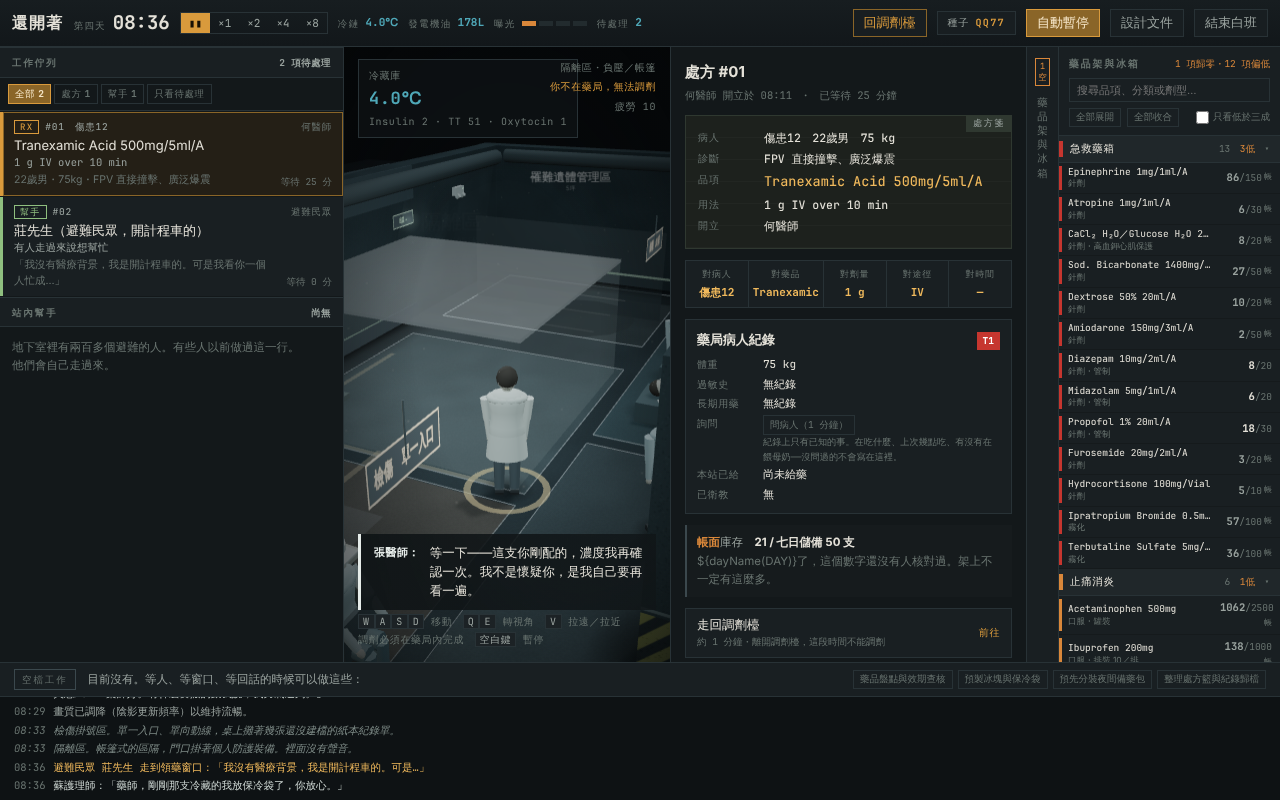
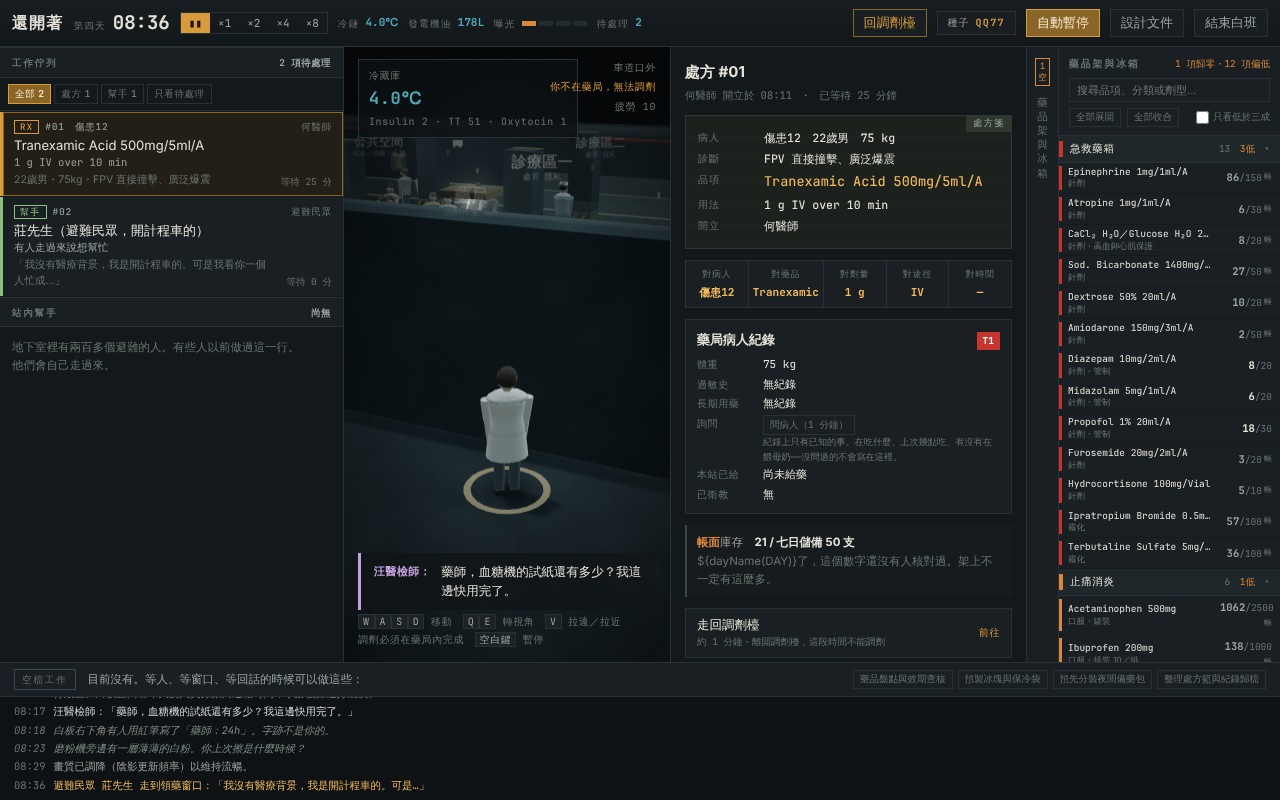
Smooth camera, wall pipes/conduit/posters, worn-floor roughness, working arms, medicine bags
Claude-Session: https://claude.ai/code/session_014gwcX8PJWUWGRypBbiNv4K

diff --git a/js/scene3d.js b/js/scene3d.js
@@ -108,6 +108,24 @@ function concreteTex(){
   t.anisotropy=Math.min(4,renderer.capabilities.getMaxAnisotropy());
   return t;
 }
+/* 地面的粗糙度：大部分是乾的粗水泥，有幾塊被鞋子、推車磨亮的地方，
+   燈打下來會在那幾塊留下一點反光。值越小越亮（roughnessMap 讀綠色通道）。 */
+function roughTex(){
+  const N=128, c=document.createElement('canvas'); c.width=c.height=N;
+  const g=c.getContext('2d'), im=g.createImageData(N,N), d=im.data, rr=mulberry(0x2ff);
+  const G=5, grid=[]; for (let i=0;i<G*G;i++) grid.push(rr());
+  const at=(x,y)=>grid[((y%G+G)%G)*G+((x%G+G)%G)], sm=t=>t*t*(3-2*t);
+  for (let y=0;y<N;y++) for (let x=0;x<N;x++){
+    const fx=x/N*G, fy=y/N*G, x0=Math.floor(fx), y0=Math.floor(fy), tx=sm(fx-x0), ty=sm(fy-y0);
+    const a=at(x0,y0)+(at(x0+1,y0)-at(x0,y0))*tx, b=at(x0,y0+1)+(at(x0+1,y0+1)-at(x0,y0+1))*tx;
+    const n=a+(b-a)*ty;                                  // 0..1
+    const v=n>.62 ? .5+(1-n)*.55 : .86+(rr()-.5)*.08;     // 磨亮的那幾塊約 0.5–0.7
+    const k=(y*N+x)*4, q=Math.max(0,Math.min(255,v*255));
+    d[k]=d[k+1]=d[k+2]=q; d[k+3]=255;
+  }
+  g.putImageData(im,0,0);
+  const t=new THREE.CanvasTexture(c); t.wrapS=t.wrapT=THREE.RepeatWrapping; return t;
+}
 function mulberry(a){ return ()=>{ a|=0; a=a+0x6D2B79F5|0; let t=Math.imul(a^a>>>15,1|a);
   t=t+Math.imul(t^t>>>7,61|t)^t; return ((t^t>>>14)>>>0)/4294967296; }; }
 /** 方塊六個面各自依實際尺寸放大 UV（BoxGeometry 的面順序：±x、±y、±z，每面四個頂點） */
@@ -546,6 +564,96 @@ function dressStation(small){
     add(m,x,2.35,z);
     add(cyl(.012,.55,0x4a5458,6,.6,.4), x,2.6,z); });
 }
+/* ---------- 牆面 ----------
+   北牆（藥局後面那一面）幾乎每個畫面都看得到，原本是一整片空的深灰。
+   地下停車場的牆上其實很擠：消防灑水主管（紅）、給水管、電線管與接線盒、
+   漆到一公尺高的牆裙；變成急救站之後又貼滿了告示。全部靜態，合併後幾次 draw call。 */
+function posterAtlas(){
+  const W=1024,H=512,c=document.createElement('canvas'); c.width=W; c.height=H;
+  const g=c.getContext('2d');
+  const cell=(i,bg,fg,title,lines,draw)=>{
+    const x=(i%4)*256, y=Math.floor(i/4)*256;
+    g.save(); g.translate(x,y);
+    g.fillStyle=bg; g.fillRect(4,4,248,248);
+    g.fillStyle='rgba(0,0,0,.12)'; g.fillRect(4,236,248,16);            // 下緣受潮
+    g.fillStyle=fg; g.font='700 30px "Noto Sans TC",sans-serif'; g.textAlign='center';
+    g.fillText(title,128,46);
+    g.fillRect(28,58,200,3);
+    g.font='500 19px "Noto Sans TC",sans-serif';
+    lines.forEach((l,k)=>g.fillText(l,128,92+k*28));
+    if (draw) draw(g);
+    g.fillStyle='rgba(200,200,190,.5)';                                  // 膠帶
+    g.fillRect(14,0,40,14); g.fillRect(202,0,40,14);
+    g.restore();
+  };
+  cell(0,'#d8d2c0','#3a3226','藥品　五對',['對病人','對藥品','對劑量','對途徑','對時間']);
+  cell(1,'#dfe6e2','#24506a','洗手七步驟',['內　外　夾','弓　大　立','腕','（每位病人前後）']);
+  cell(2,'#2b2f2a','#e6d36b','防空避難',['B2 避難室','容納 480 人','警報時','關閉車道鐵捲門','勿使用電梯']);
+  cell(3,'#c94a3a','#f3e6d8','禁止吸菸',['NO SMOKING','發電機與','氧氣鋼瓶區'],g=>{
+    g.strokeStyle='#f3e6d8'; g.lineWidth=8; g.beginPath(); g.arc(128,200,30,0,6.3); g.stroke();
+    g.beginPath(); g.moveTo(107,179); g.lineTo(149,221); g.stroke(); });
+  cell(4,'#e3dccb','#5a2a22','管制藥品',['雙人核對','雙人簽名','空瓶繳回','櫃子隨手上鎖']);
+  cell(5,'#d6dccf','#2f4a3a','檢傷分級',['紅　立即','黃　緊急','綠　非緊急','黑　死亡']);
+  cell(6,'#e0d9c6','#3a3226','值班表　第四天',['藥師　1（白班）','護理　3','醫師　3','志工　＿＿']);
+  cell(7,'#1c2124','#7fbf8f','急救站平面圖',['','',''],g=>{
+    g.strokeStyle='#7fbf8f'; g.lineWidth=2; g.strokeRect(36,74,184,130);
+    [[36,74,46,40],[82,74,46,40],[128,74,46,40],[174,74,46,40],[36,114,46,45],[82,114,80,90]].forEach(r=>g.strokeRect(...r));
+    g.fillStyle='#d99a3c'; g.beginPath(); g.arc(105,94,6,0,6.3); g.fill();
+    g.font='500 15px "Noto Sans TC",sans-serif'; g.fillStyle='#7fbf8f'; g.fillText('● 你在這裡',128,228); });
+  const t=new THREE.CanvasTexture(c);
+  t.anisotropy=Math.min(4,renderer.capabilities.getMaxAnisotropy());
+  return t;
+}
+function dressWalls(small){
+  const add=o=>{ scene.add(o); return o; };
+  // 管線：水平管走在牆的上緣，偶爾有一段垂直管下來
+  const pipe=(len,r,c,horizontal)=>{ const m=new THREE.Mesh(
+    geo(`pipe${len}|${r}`,()=>new THREE.CylinderGeometry(r,r,len,10)), stdMat(c,.55,.35));
+    if (horizontal) m.rotation.z=Math.PI/2; m.castShadow=false; m.receiveShadow=true; return m; };
+  const runs=[                          // [x, y, z, 長, 半徑, 顏色]
+    [0,3.05,-9.33,26.4,.075,0x7a2e28],  // 消防灑水主管
+    [0,2.82,-9.36,26.4,.05,0x4f5a5c],   // 給水管
+    [0,2.95,6.33,26.4,.075,0x7a2e28],
+  ];
+  runs.forEach(([x,y,z,l,r,c])=>{ const m=pipe(l,r,c,true); m.position.set(x,y,z); add(m); });
+  // 管子的吊架
+  for (let x=-12;x<=12;x+=3){ const h=box(.04,.3,.1,0x3a4246,{rough:.6,metal:.4}); h.position.set(x,3.2,-9.36); add(h); }
+  // 垂直管：從主管下到消防栓箱、到洗手台的方向
+  [[-12.4,-9.33,0x7a2e28,.06],[3.2,-9.36,0x4f5a5c,.045],[10.2,-9.36,0x4f5a5c,.045]].forEach(([x,z,c,r])=>{
+    const m=pipe(2.2,r,c,false); m.position.set(x,1.95,z); add(m); });
+  // 電線管與接線盒（北牆、西牆）
+  { const m=pipe(26.4,.022,0x8a9290,true); m.position.set(0,2.55,-9.42); add(m); }
+  [-10.8,-6.6,-2.2,2.5,7.4,11.6].forEach(x=>{
+    const b=box(.16,.16,.07,0x9aa19e,{rough:.5,metal:.2}); b.position.set(x,2.55,-9.41); add(b);
+    if (!small){ const d=pipe(1.2,.02,0x8a9290,false); d.position.set(x,1.95,-9.42); add(d);
+      const sw=box(.1,.14,.03,0xc9cdc8,{rough:.5}); sw.position.set(x,1.32,-9.42); add(sw); } });
+  // 牆裙：一公尺高的漆，加一條細線
+  const band=(x,z,w,ry)=>{
+    const m=new THREE.Mesh(geo(`band${w}`,()=>new THREE.PlaneGeometry(w,1.0)), stdMat(0x24302c,.9));
+    m.position.set(x,.5,z); m.rotation.y=ry; m.receiveShadow=true; add(m);
+    const l=new THREE.Mesh(geo(`bandl${w}`,()=>new THREE.PlaneGeometry(w,.05)), stdMat(0x7c8a6a,.8));
+    l.position.set(x,1.02,z); l.rotation.y=ry; add(l); };
+  band(0,-9.44,26.4,0); band(0,6.44,26.4,Math.PI);
+  band(-13.24,-1.5,16,Math.PI/2); band(13.24,-1.5,16,-Math.PI/2);
+  // 告示：一張貼圖集，每張海報只是 UV 不同
+  const tex=posterAtlas(), pm=new THREE.MeshStandardMaterial({map:tex,roughness:.85});
+  TEXDRAW.push(()=>{ const n=posterAtlas(); tex.image=n.image; tex.needsUpdate=true; });
+  const poster=(i,x,y,z,ry,s)=>{
+    const g=new THREE.PlaneGeometry(.62*(s||1),.62*(s||1)), uv=g.attributes.uv;
+    const u0=(i%4)/4, v0=1-(Math.floor(i/4)+1)/2;
+    for (let k=0;k<uv.count;k++) uv.setXY(k,u0+uv.getX(k)/4, v0+uv.getY(k)/2);
+    const m=new THREE.Mesh(g,pm); m.position.set(x,y,z); m.rotation.y=ry||0;
+    m.rotation.z=fxRnd(-.03,.03); m.receiveShadow=true; add(m); };
+  // 藥局後牆整面被藥架擋住：管制藥品的告示貼在管制櫃門上，五對貼在調劑檯正面
+  poster(4,BENCH[0]+2.6,1.25,BENCH[1]-1.59,0,.8);
+  poster(0,BENCH[0]-1.2,.52,BENCH[1]+.76,0,.72);
+  poster(1,-1.0,1.6,-9.43);   poster(5,1.3,1.75,-9.43);               // 檢傷
+  poster(6,-12.75,1.7,-9.43);  poster(7,-8.68,1.75,-9.43,0,1.25);     // 行政區：白板兩側
+  poster(2,-13.23,1.7,-4.6,Math.PI/2,1.15);                           // 庫備品區旁
+  poster(3,-13.23,1.7,-0.3,Math.PI/2);                                // 發電機旁
+  poster(1,13.23,1.6,1.6,-Math.PI/2); poster(5,13.23,1.75,-2.6,-Math.PI/2);
+  poster(2,4.2,1.7,6.43,Math.PI,1.15);
+}
 function init3D(){
   const canvas=$('scene');
   const small=MOBILE();
@@ -567,9 +675,9 @@ function init3D(){
   cam=new THREE.PerspectiveCamera(46,1,0.1,200);
 
   // 地面：所有地坪共用一張水泥紋理，UV 依實際尺寸放大，紋理密度一致
-  const conc=concreteTex();
+  const conc=concreteTex(), crough=roughTex();
   const floor=new THREE.Mesh(worldUV(new THREE.PlaneGeometry(64,54),64,54,4),
-    new THREE.MeshStandardMaterial({color:0x0e1214,roughness:.78,metalness:.08,map:conc}));
+    new THREE.MeshStandardMaterial({color:0x0e1214,roughness:1,metalness:.08,map:conc,roughnessMap:crough}));
   floor.rotation.x=-Math.PI/2; floor.receiveShadow=true; scene.add(floor);
 
   const outl={pharm:[],other:[]};
@@ -577,7 +685,7 @@ function init3D(){
     const w=z.b[0]-z.a[0], h=z.b[1]-z.a[1];
     const k='zone'+z.c;
     const m=new THREE.Mesh(worldUV(new THREE.PlaneGeometry(w-.3,h-.3),w-.3,h-.3,4),
-      MC[k]||(MC[k]=new THREE.MeshStandardMaterial({color:z.c,roughness:.9,map:conc})));
+      MC[k]||(MC[k]=new THREE.MeshStandardMaterial({color:z.c,roughness:1,metalness:.06,map:conc,roughnessMap:crough})));
     m.rotation.x=-Math.PI/2; m.position.set(z.a[0]+w/2,.012,z.a[1]+h/2);
     m.receiveShadow=true; scene.add(m); M.zones.push(m);
     const x0=z.a[0]+.15,x1=z.b[0]-.15,z0=z.a[1]+.15,z1=z.b[1]-.15;
@@ -785,6 +893,7 @@ function init3D(){
     return g; });
 
   dressStation(small);
+  dressWalls(small);
 
   // 燈光
   /* 原本是一盞平的環境光（0.58），所有東西四面一樣亮，人看起來是剪紙。
@@ -1229,6 +1338,9 @@ function render3D(dt){
     const mk=new THREE.Mesh(new THREE.PlaneGeometry(.62,.26),
       new THREE.MeshBasicMaterial({map:textTex('領　藥','#1a1206','#f0b95c'),transparent:true,depthTest:false}));
     mk.position.y=2.02; g.add(mk); g.userData.mk=mk;
+    const L=g.userData.limbs;                          // 藥袋：掛在右手上，領到藥之後才出現
+    if (L){ const bag=new THREE.Mesh(geo('bag',()=>new THREE.BoxGeometry(.16,.22,.07)), stdMat(0xe8e4d8,.8));
+      bag.position.set(0,-.74,.02); bag.castShadow=true; bag.visible=false; L.a2.add(bag); g.userData.bag=bag; }
     M.pk.push(g);
   }
   M.pk.forEach((g,i)=>{
@@ -1249,19 +1361,40 @@ function render3D(dt){
   // 處方籃高度＝佇列
   const q=Math.min(10,nPending);
   M.baskets.forEach((b,i)=>b.visible=i<q);
-  // 相機
-  const cs=Math.cos(player.yaw), sn=Math.sin(player.yaw);
-  const dist=player.wide?16.5:8.5, ht=player.wide?13.5:5.5, look=player.wide?4.5:2.3;
+  /* 相機：不再死黏在人身上。跟隨點、繞行角度、遠近三個量各自平滑追上，
+     所以轉視角是繞著人轉一圈（不是穿過中間），按 V 拉遠拉近有過場。 */
+  const C=M.camS||(M.camS={x:player.pos[0],z:player.pos[1],yaw:player.yaw,zoom:player.wide?1:0});
+  const ease=r=>1-Math.exp(-dt*r);
+  C.x+=(player.pos[0]-C.x)*ease(9); C.z+=(player.pos[1]-C.z)*ease(9);
+  let dyaw=player.yaw-C.yaw; dyaw=Math.atan2(Math.sin(dyaw),Math.cos(dyaw));
+  C.yaw+=dyaw*ease(7);
+  C.zoom+=((player.wide?1:0)-C.zoom)*ease(4.5);
+  const zz=C.zoom*C.zoom*(3-2*C.zoom), mix=(a,b)=>a+(b-a)*zz;
+  const cs=Math.cos(C.yaw), sn=Math.sin(C.yaw);
+  const dist=mix(8.5,16.5), ht=mix(5.5,13.5), look=mix(2.3,4.5);
   let sx=0,sy=0;
   if (shake>0){ shake=Math.max(0,shake-dt*1.5); sx=fxRnd(-.25,.25)*shake; sy=fxRnd(-.2,.2)*shake; }
-  cam.position.set(player.pos[0]-sn*dist+sx, ht+sy, player.pos[1]-cs*dist);
-  cam.lookAt(player.pos[0]+sn*look, player.wide?.6:1.1, player.pos[1]+cs*look);
+  cam.position.set(C.x-sn*dist+sx, ht+sy, C.z-cs*dist);
+  cam.lookAt(C.x+sn*look, mix(1.1,.6), C.z+cs*look);
   fadeOccluders(dt);
   // 走路的擺動：玩家、隊員、幫手、來領藥的人、巡邏的維安
   gait(M.player,dt);
   M.npcs.forEach(n=>gait(n.g,dt));
   M.helperNpcs.forEach(g=>{ if (g.visible) gait(g,dt); });
   M.pk.forEach(g=>{ if (g.visible) gait(g,dt); });
+  /* 手上在做事：藥師在調劑檯前作業、幫手站定在工作位置時，兩手在檯面上動（數藥、分包、寫標籤） */
+  const work=(g,on,ph)=>{ const L=g.userData.limbs; if (!L) return;
+    L.w=(L.w||0)+((on?1:0)-(L.w||0))*Math.min(1,dt*5);
+    if (L.w<.01) return;
+    const t=now/1000+ph;
+    L.a1.rotation.x += (-.95+Math.sin(t*5.2)*.14 - L.a1.rotation.x)*L.w;
+    L.a2.rotation.x += (-1.05+Math.sin(t*4.1+1.3)*.16 - L.a2.rotation.x)*L.w;
+    L.a1.rotation.z += (.22-L.a1.rotation.z)*L.w*.5; L.a2.rotation.z += (-.22-L.a2.rotation.z)*L.w*.5; };
+  work(M.player, !!(S.task && !S.task.walk && S.atBench) && M.player.userData.limbs.amt<.2, 0);
+  M.helperNpcs.forEach((g,i)=>{ const r=S.helpers[i]; if (!g.visible||!r) return;
+    const at=helperSpot(r); work(g, !!(r.job||r.chore) && Math.hypot(at[0]-g.position.x,at[1]-g.position.z)<.15, i*1.7); });
+  // 領到藥的人拎著白色藥袋走
+  M.pk.forEach((g,i)=>{ const k=S.pickups[i]; if (g.userData.bag) g.userData.bag.visible=!!k && k.kind==='take' && k.phase==='leave'; });
   M.sec.forEach(g=>{ if (g.visible) gait(g,dt); });
   // 讀數與燈
   if (!M.lastP || now-M.lastP>420){ M.lastP=now; drawFridge(); }

diff --git a/js/ui/docs.js b/js/ui/docs.js
@@ -82,7 +82,12 @@ function openDoc(){
       <br>・<b>人的外型</b>——軀幹有胸、腰、臀的起伏，前後比左右薄；有肩、袖子、前臂、手、鞋；
       頭髮（有長有短、有黑有灰）與鼻子讓人一眼看出臉朝哪邊；醫師與藥師穿著白袍下襬；每個人的高矮胖瘦略有不同。
       留觀床上的病人改成仰躺、頭朝點滴架、毯子蓋到腰，檢傷顏色的上衣看得到。
-      順便修正：鴨舌帽的帽簷原本朝後、背包原本背在胸前。</li>
+      順便修正：鴨舌帽的帽簷原本朝後、背包原本背在胸前。
+      <br>・<b>相機有過場</b>——跟隨、轉視角、拉遠拉近都會平滑追上；轉視角是繞著人轉，不是瞬間跳過去。
+      <br>・<b>牆上不再是空的</b>——消防灑水主管、給水管、電線管與接線盒、一公尺高的牆裙，
+      還有告示：五對（貼在調劑檯正面）、管制藥品（貼在管制櫃門上）、洗手七步驟、檢傷分級、防空避難、禁止吸菸、值班表、急救站平面圖。
+      <br>・<b>地面有被磨亮的地方</b>——燈光打下來，走道上幾塊被鞋子和推車磨亮的水泥會有反光。
+      <br>・<b>手上在做事</b>——藥師在調劑檯前作業、幫手站定工作時，兩手在檯面上動；領到藥的人拎著白色藥袋離開。</li>
   </ul>
 
   </details>
